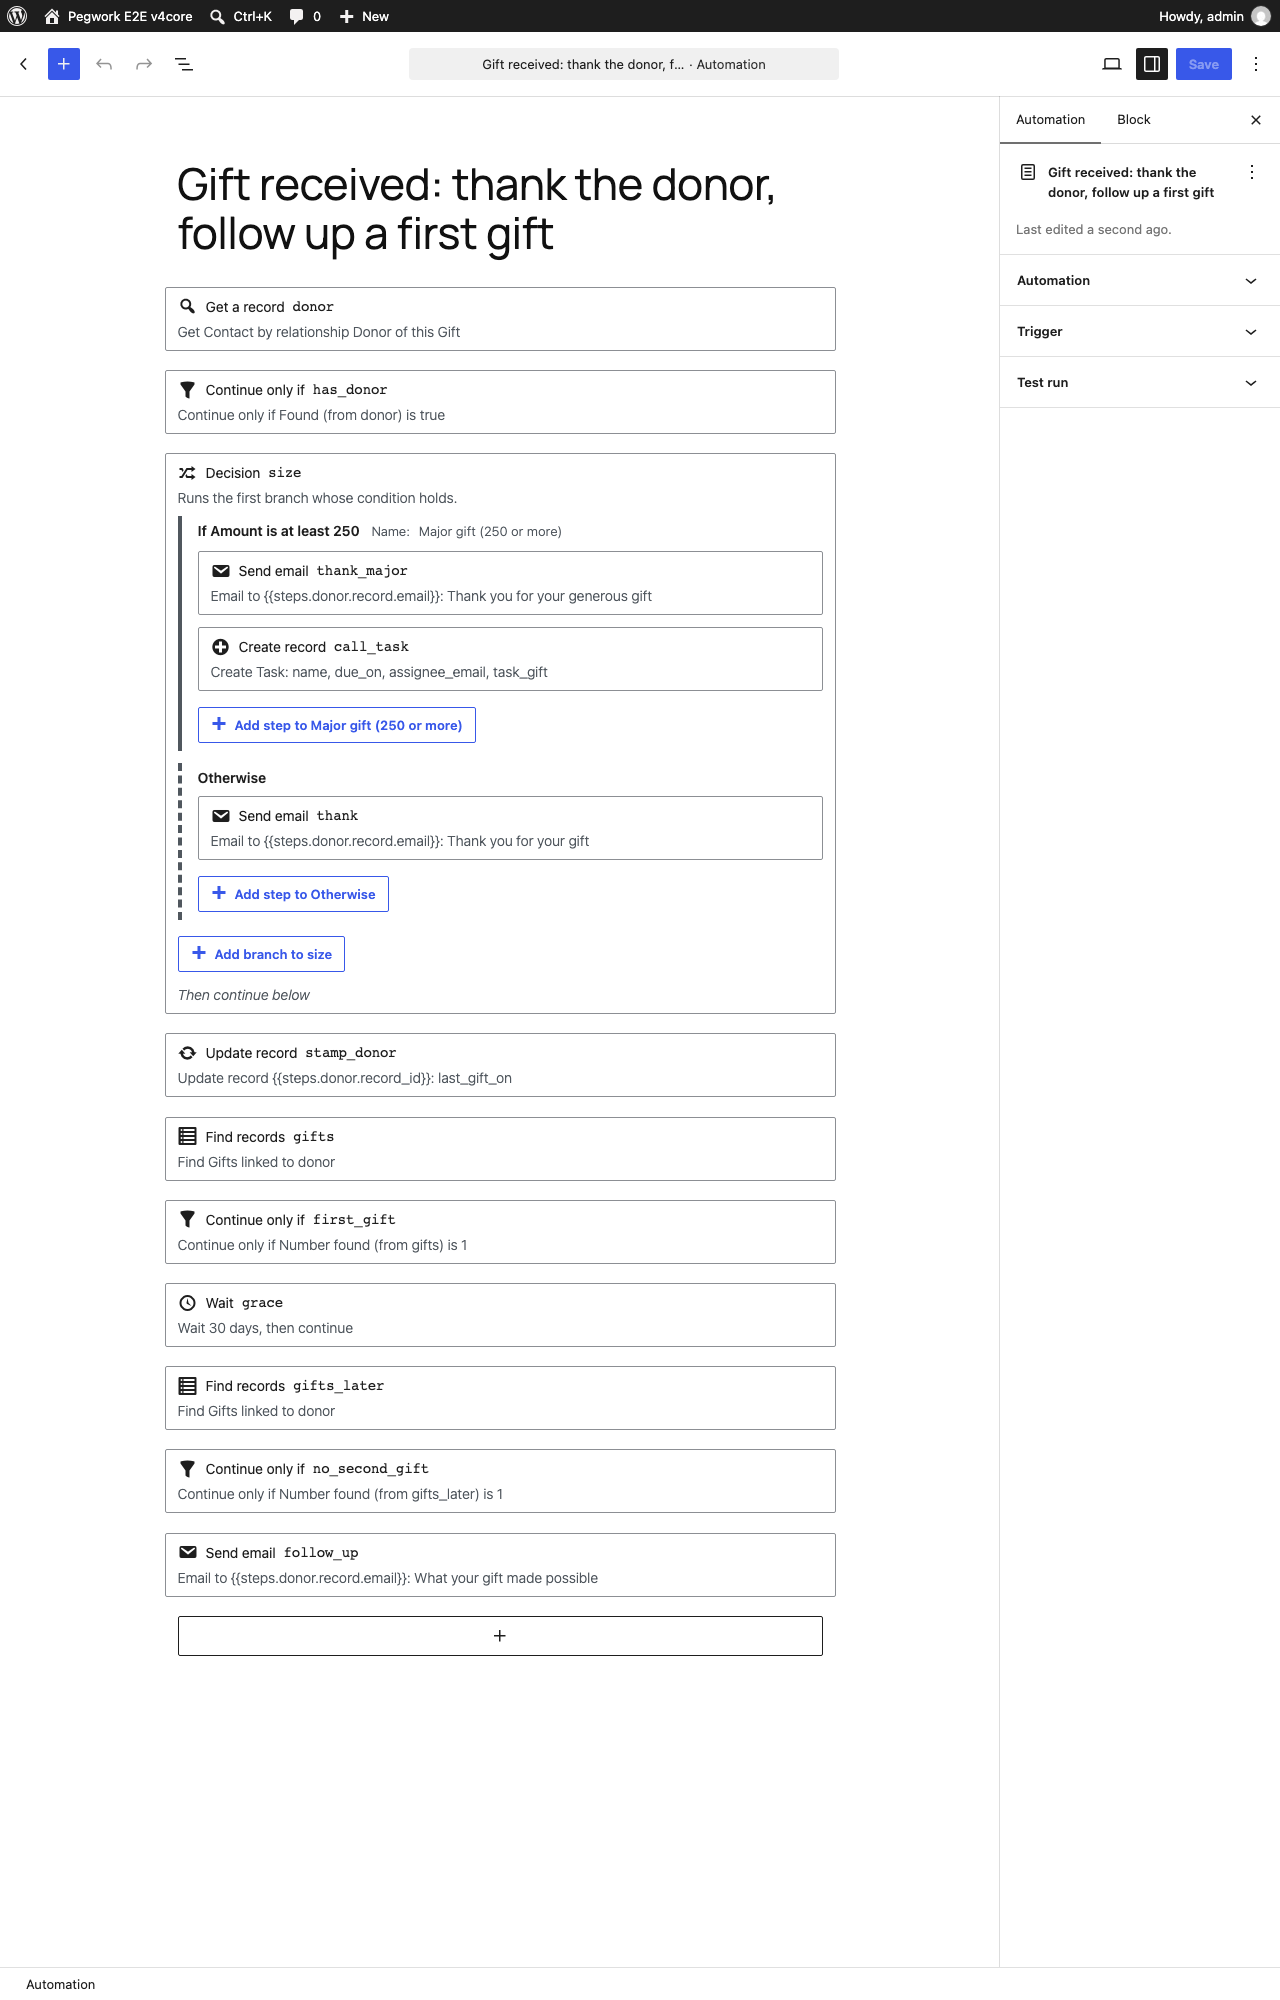
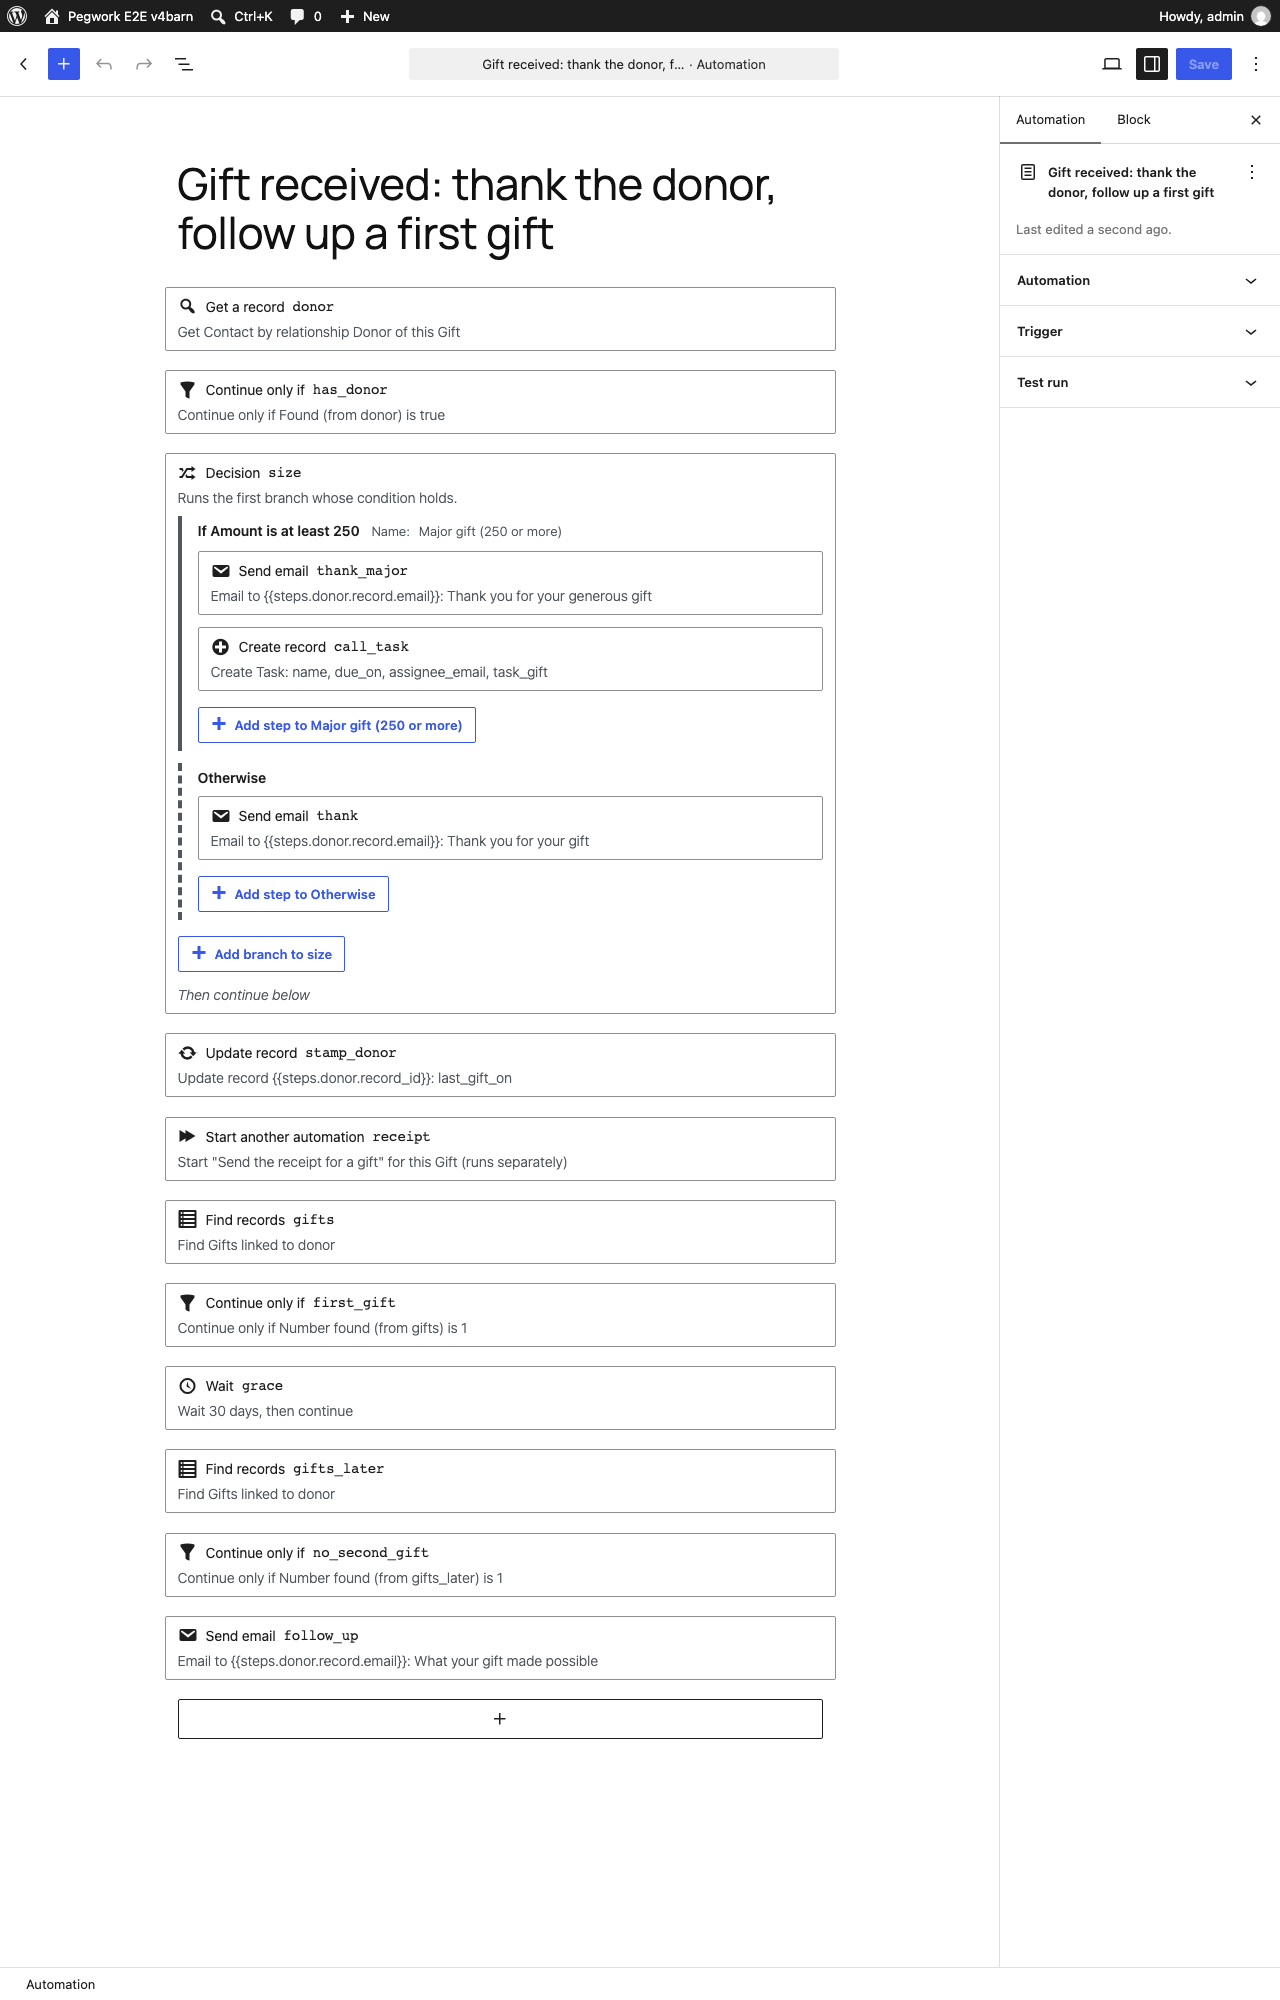
Barn proof v4: keyboard E2E builds barn_gift_thanks with the receipt start
The barn flows spec saves barn_gift_receipt first, adds the Start another
automation step after stamp_donor and checks its Test run line; the compare
route reads the BarnCRM fixture's copy when there is one.

Changed region(s): [[0.125, 0.558, 0.3438, 0.837], [0.375, 0.806, 0.4688, 0.837]]

diff --git a/tests/e2e/specs/automation-barn-flows.e2e.js b/tests/e2e/specs/automation-barn-flows.e2e.js
@@ -2,8 +2,9 @@
  * The BarnCRM example flows (design `docs/automation-v3-design.md`, "Worked examples: BarnCRM flows
  * with reads", and the Phase 6 volunteer intake) built in the automation editor by keyboard only (no
  * mouse calls): from Pegwork > Automations > Add automation, barn_gift_thanks (the donor read through
- * the Donor relationship, the size decision, the call task linked to its gift, the stamp, the gift
- * count, the 30-day wait, the recount and the follow-up) and barn_volunteer_intake are built control
+ * the Donor relationship, the size decision, the call task linked to its gift, the stamp, the shared
+ * receipt started with "Start another automation" (Automation v4), the gift count, the 30-day wait,
+ * the recount and the follow-up) and barn_volunteer_intake are built control
  * by control, saved, and read back through the admin e2e route; each canonical JSON must equal the
  * fixture in tests/fixtures/valid/barn/automations byte for byte, except `enabled` (a new site
  * automation is saved disabled). The texts typed come from the fixture; the structure, ids,
@@ -223,6 +224,10 @@ test.beforeAll( async () => {
 		enabled: true,
 	} );
 	await adminCall( 'POST', '/pegwork-e2e/v1/barn/reset' );
+	// The shared receipt barn_gift_thanks starts (v4): an enabled manual automation, so the picker offers it.
+	await adminCall( 'POST', '/pegwork-e2e/v1/barn/v4-automation', {
+		key: 'barn_gift_receipt',
+	} );
 	for ( const amount of [ 300, 40 ] ) {
 		gifts[ amount ] = await adminCall(
 			'POST',
@@ -283,7 +288,7 @@ test( 'build barn_gift_thanks by keyboard; it saves identical to the fixture', a
 		sidebar( page ).getByRole( 'combobox', { name: 'Value', exact: true } )
 	).toHaveValue( 'true' );
 
-	// The main list after them: size, stamp_donor, gifts, first_gift, grace, gifts_later,
+	// The main list after them: size, stamp_donor, receipt, gifts, first_gift, grace, gifts_later,
 	// no_second_gift, follow_up.
 	await insertMain( page, 'If / Otherwise' );
 	await setStepId( page, 'decision', 'size' );
@@ -294,6 +299,22 @@ test( 'build barn_gift_thanks by keyboard; it saves identical to the fixture', a
 	await insertInto( field( page, 'Record (optional)' ), stamp.record );
 	// The typed reference names a Contact, so its fields are offered.
 	await fillValues( page, stamp.values, { last_gift_on: 'Last gift on' } );
+	// receipt (v4): start the shared receipt automation for this gift.
+	await insertMain( page, 'Start another automation' );
+	await setStepId( page, 'start', 'receipt' );
+	await openBlockTab( page );
+	await choose(
+		sidebar( page ).getByRole( 'combobox', {
+			name: 'Automation',
+			exact: true,
+		} ),
+		stepOf( def, 'receipt' ).automation
+	);
+	await expect(
+		frame.locator( '.pegwork-automation-step__summary', {
+			hasText: 'Start "Send the receipt for a gift" for this Gift',
+		} )
+	).toHaveCount( 1 );
 	for ( const id of [ 'gifts', 'gifts_later' ] ) {
 		await insertMain( page, 'Find records' );
 		await setStepId( page, 'find', id );
@@ -362,7 +383,7 @@ test( 'build barn_gift_thanks by keyboard; it saves identical to the fixture', a
 	await page.reload();
 	await openEditor( page, /post\.php\?post=\d+&action=edit/ );
 	await expect( frame.locator( '.pegwork-automation-step' ) ).toHaveCount(
-		12
+		13
 	);
 	await checkPegworkA11y( page );
 	await shot( page, 'automation-barn-gift-thanks-1280.png', 2000 );
@@ -434,6 +455,9 @@ test( 'Test run of barn_gift_thanks reads the donor and takes the major branch f
 			'Get record donor: found Contact'
 		);
 		await expect( report ).toContainText( 'Find records gifts: 1 Gift' );
+		await expect( report ).toContainText(
+			'Start barn_gift_receipt "Send receipt" for this Gift'
+		);
 		await expect( report ).toContainText( 'follow_up' );
 		if ( amount === 300 ) {
 			await expect( report ).toContainText( 'call_task' );

diff --git a/tests/e2e/mu-plugins/pegwork-e2e-barn.php b/tests/e2e/mu-plugins/pegwork-e2e-barn.php
@@ -217,7 +217,11 @@ add_action(
 						return new WP_Error( 'pegwork_e2e_barn_key', 'Unknown BarnCRM automation.', array( 'status' => 404 ) );
 					}
 					$saved = pegwork_registry()->automation( $key );
-					$file  = PEGWORK_DIR . 'tests/fixtures/valid/' . ( $v4 ? 'v4' : 'barn' ) . '/automations/' . $key . '.json';
+					// The BarnCRM proof fixture's file when it has one (the v4 worked examples are copied there byte for byte).
+					$file = PEGWORK_DIR . 'tests/fixtures/valid/barn/automations/' . $key . '.json';
+					if ( $v4 && ! file_exists( $file ) ) {
+						$file = PEGWORK_DIR . 'tests/fixtures/valid/v4/automations/' . $key . '.json';
+					}
 					// phpcs:ignore WordPress.WP.AlternativeFunctions.file_get_contents_file_get_contents -- Local fixture.
 					$fixture = json_decode( (string) file_get_contents( $file ), true );
 					return rest_ensure_response(
